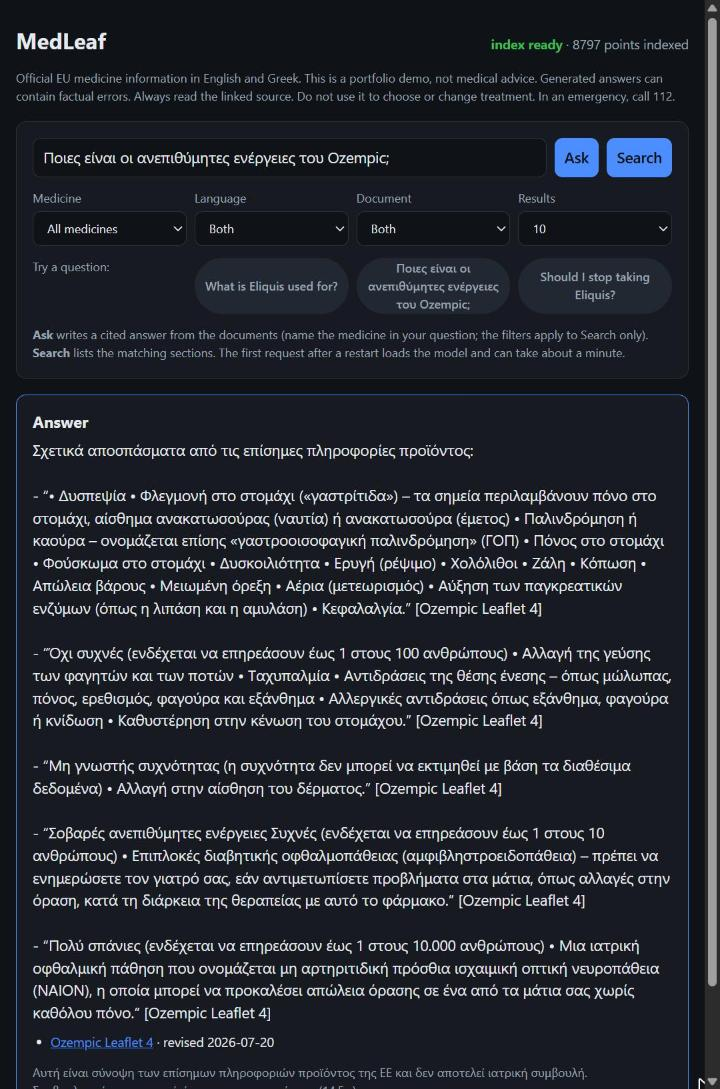
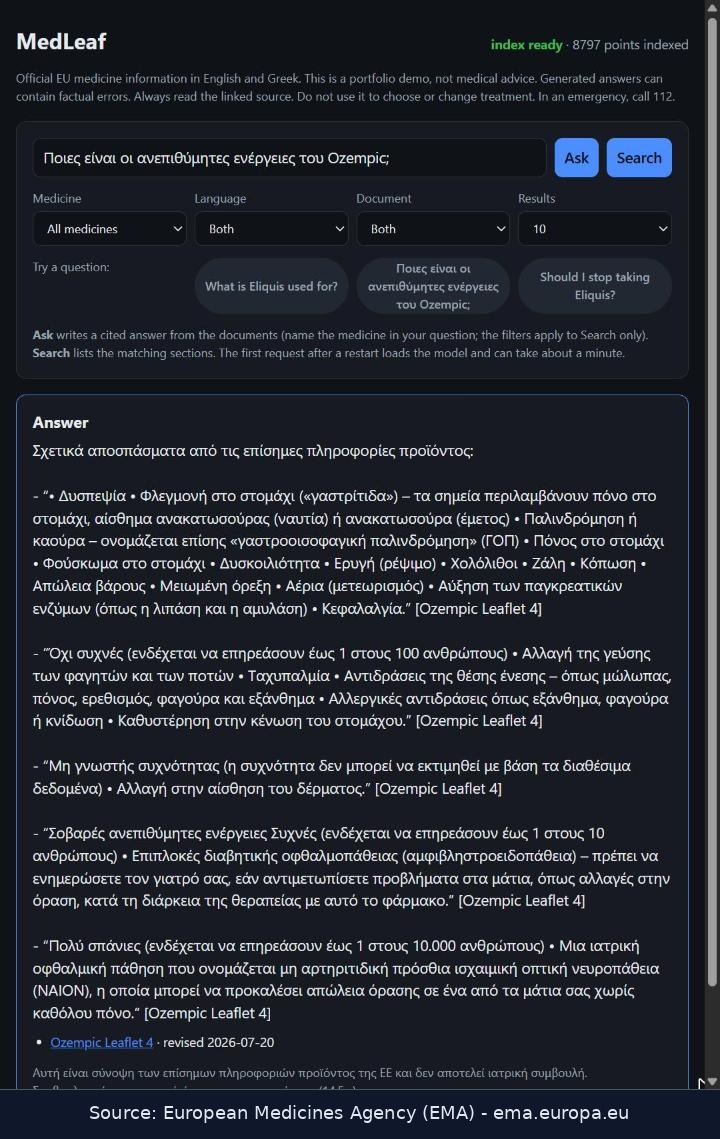
docs: add EMA source line to demo screenshots and README caption
Both screenshots reproduce EMA leaflet excerpts and EMA's legal notice
requires acknowledgement in each copy. Append a visible footer bar
without cropping the existing content and name the source under the
images.

diff --git a/README.md b/README.md
@@ -16,6 +16,9 @@ OpenAI-compatible LLM API · Docker Compose · GitHub Actions
   <img src="docs/demo-el.jpg" alt="Greek question about Ozempic side effects answered with quoted, cited EMA excerpts" width="49%">
 </p>
 
+Demo screenshots quote EMA product information. Both images carry the source line:
+*Source: European Medicines Agency (EMA) - ema.europa.eu*.
+
 ## How it works
 
 ```mermaid
